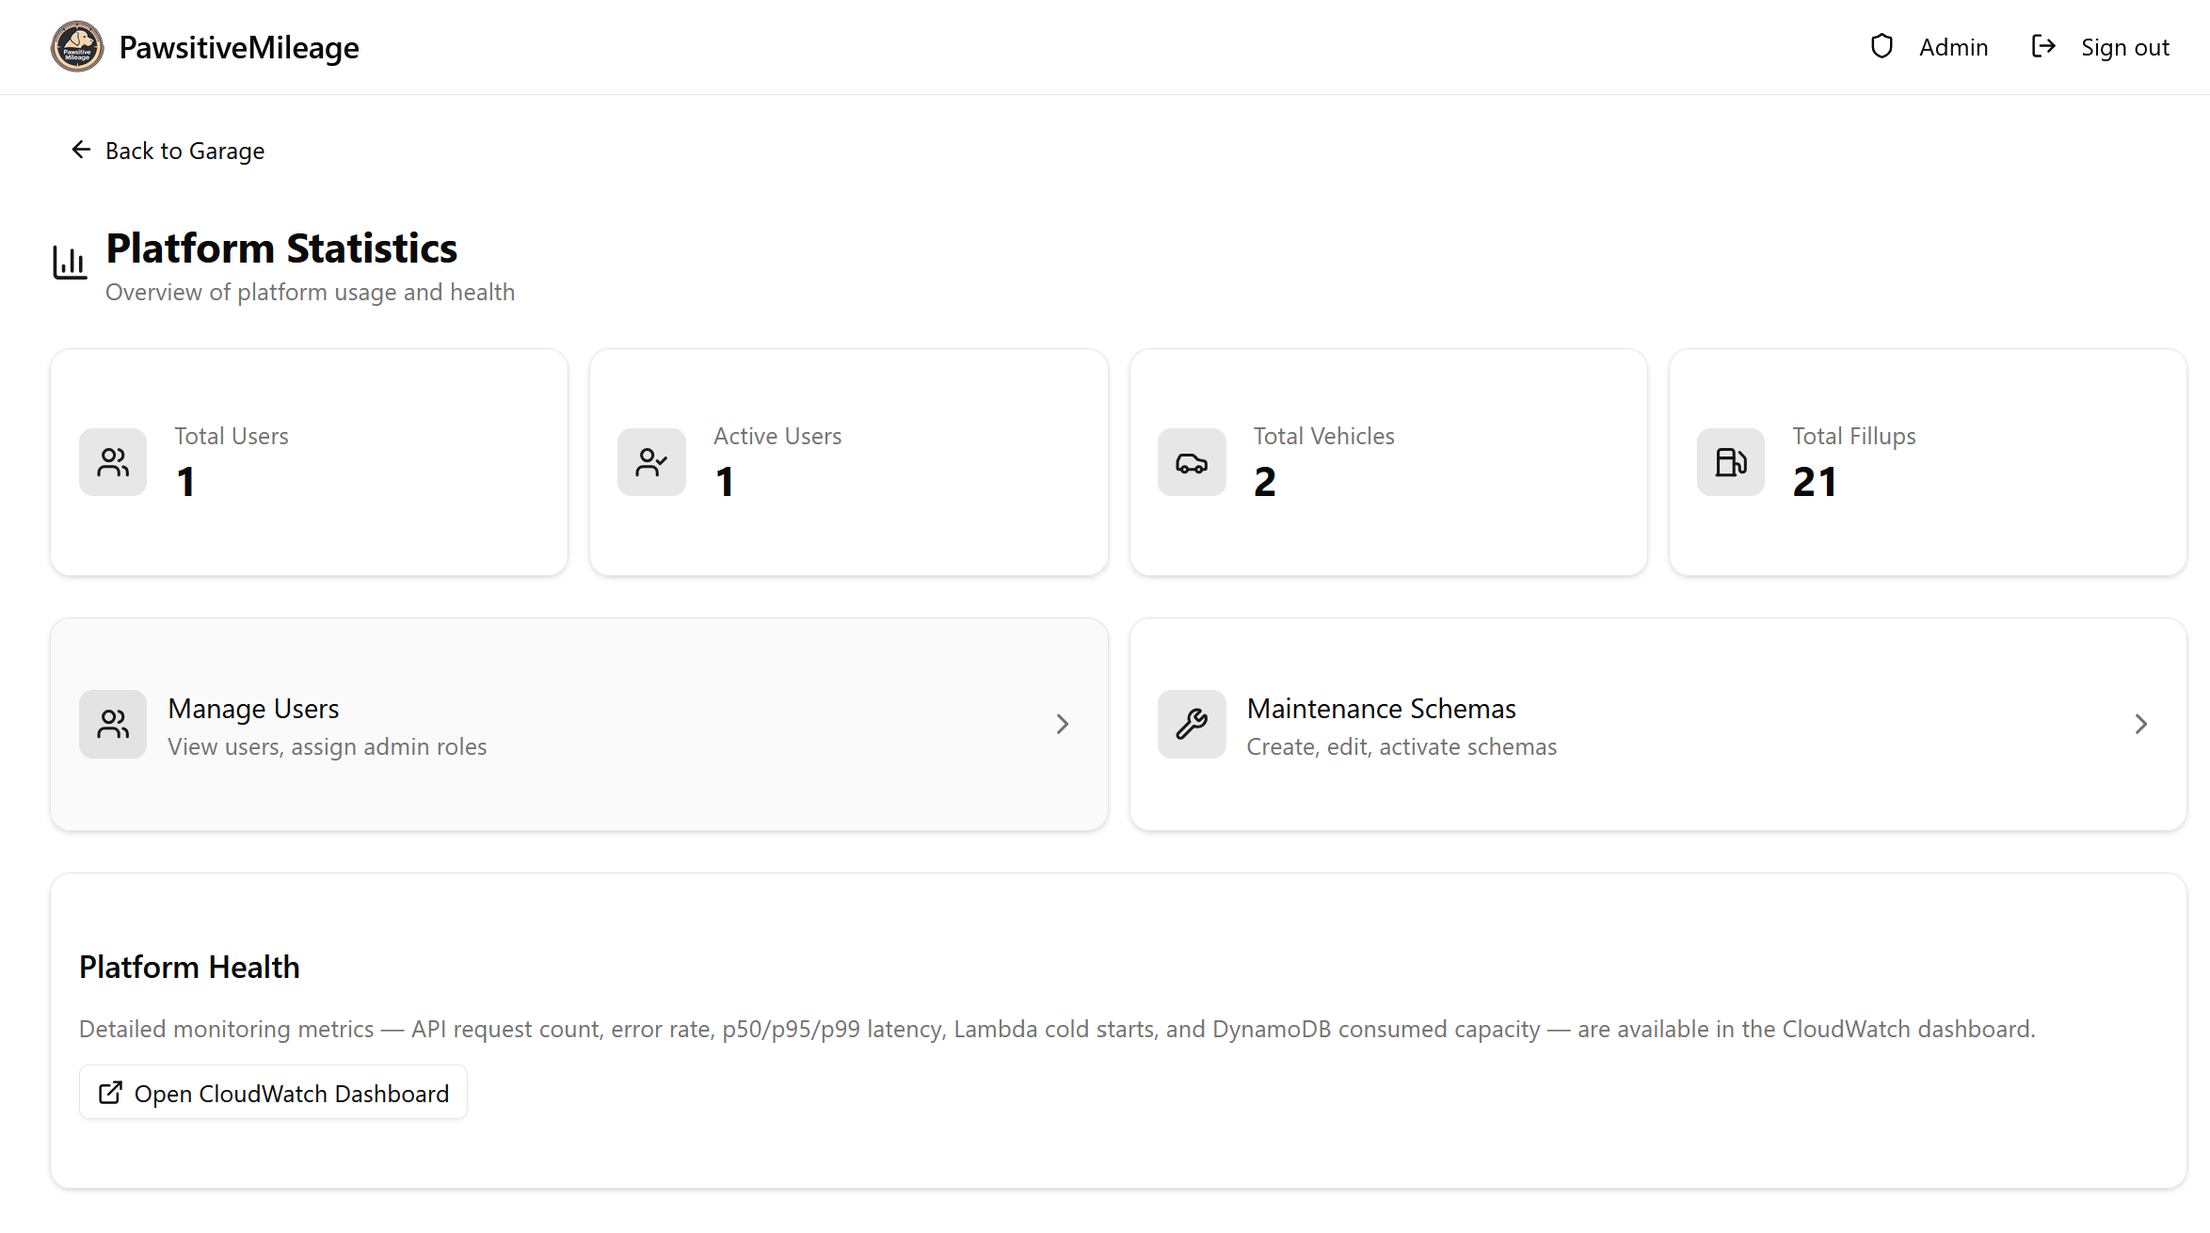
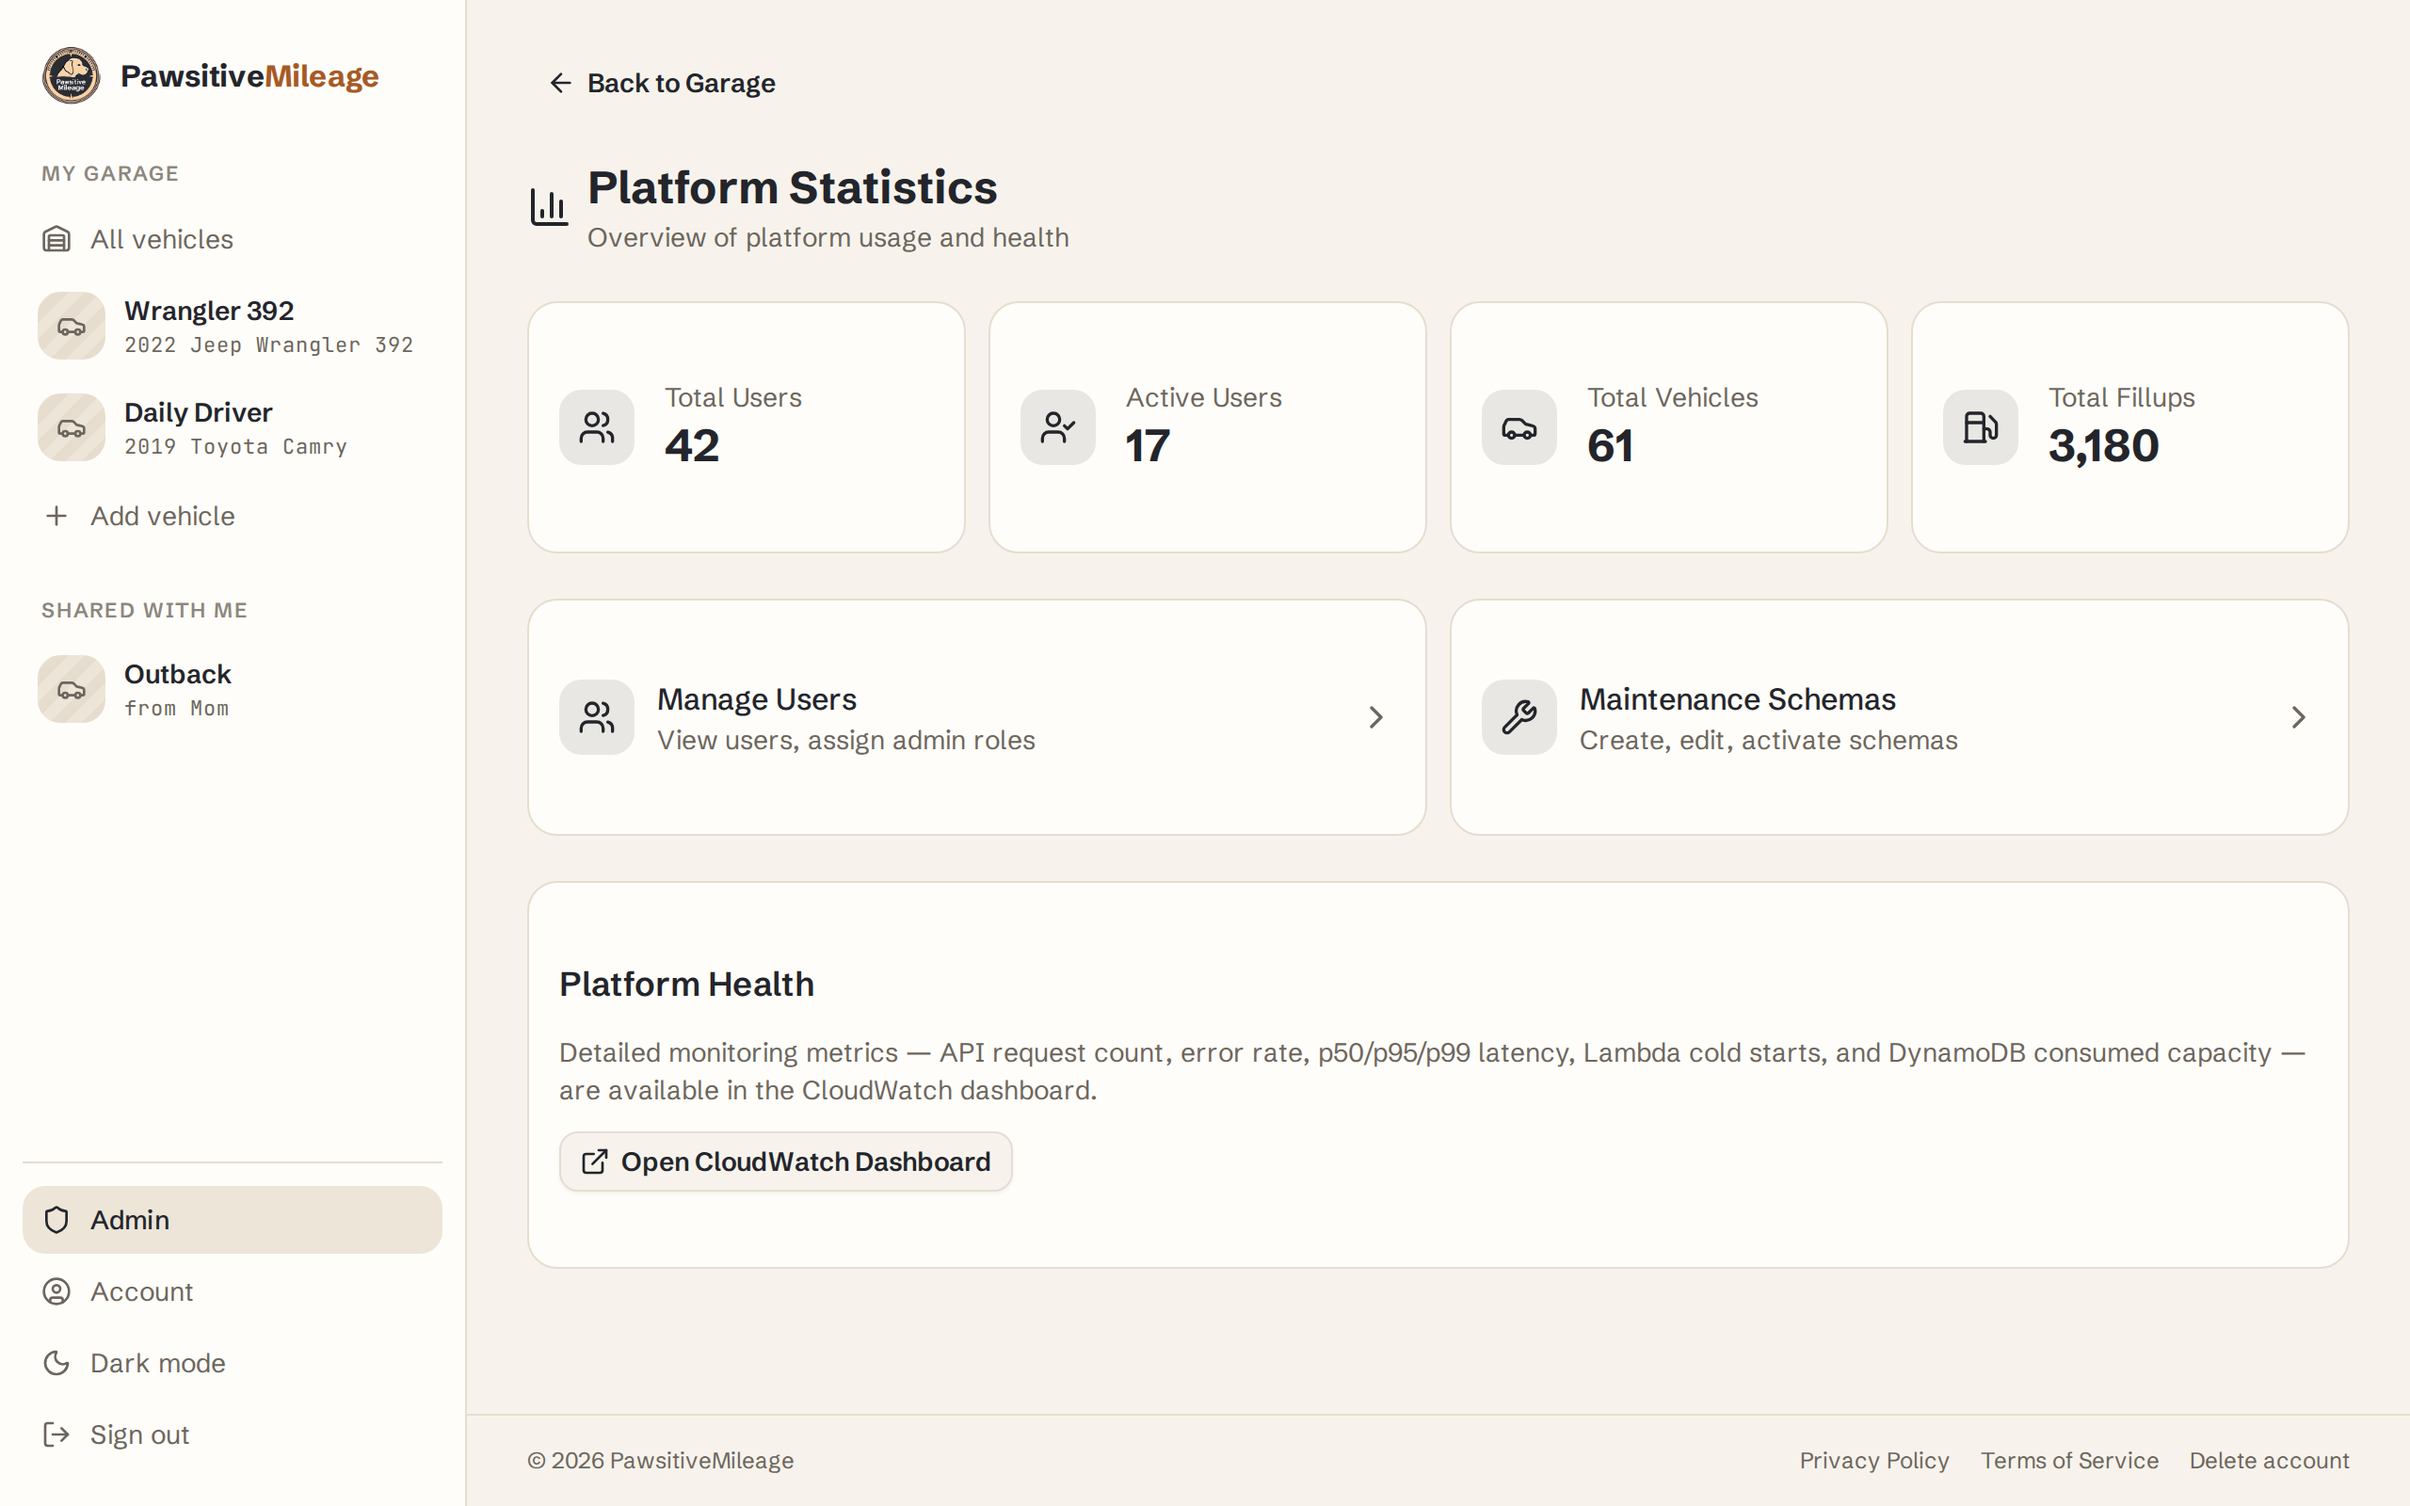
docs: refresh README screenshots for the Night Drive UI

diff --git a/README.md b/README.md
@@ -110,11 +110,16 @@ Live at **[pawsitivemileage.app](https://pawsitivemileage.app)**, with an [Andro
 
 ## Screenshots
 
+Screenshots use sample data.
+
 ### Garage
 ![Garage](docs/Garage.png)
 
-### Fillups
-![Fillups](docs/Fillups.png)
+### Vehicle dashboard
+![Vehicle dashboard](docs/Vehicle.png)
+
+### On a phone
+<img src="docs/Phone-Dash.png" alt="Vehicle dashboard on a phone, dark mode" width="270"> <img src="docs/Phone-Fillups.png" alt="Fillups on a phone, light mode" width="270">
 
 ### Analytics
 ![Analytics](docs/Analytics.png)
